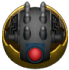
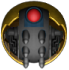
Add logic for move, rotate, report commands

diff --git a/src/App.js b/src/App.js
@@ -13,10 +13,113 @@ class App extends React.Component {
       super(props);
       this.state = {
          location: { x: 0, y: 0 },
-         facing: "north",
-         outputMessage: "An output message will go here",
+         facing: "NORTH",
+         outputMessage: "Output messages appear here",
+         // invalidCommand: false,
       };
+      this.handleSubmit = this.handleSubmit.bind(this);
+      this.moveIt = this.moveIt.bind(this);
+      this.rotateIt = this.rotateIt.bind(this);
    }
+   moveIt(facing) {
+      const x = this.state.location.x;
+      const y = this.state.location.y;
+      switch (facing) {
+         case "NORTH":
+            if (y < 4) {
+               this.setState({
+                  location: { x: x, y: y + 1 },
+                  outputMessage: `Robot moved ${this.state.facing}`,
+               });
+            } else {
+               this.setState({ outputMessage: "INVALID COMMAND" });
+            }
+            break;
+         case "SOUTH":
+            if (y > 0) {
+               this.setState({
+                  location: { x: x, y: y - 1 },
+                  outputMessage: `Robot moved ${this.state.facing}`,
+               });
+            } else {
+               this.setState({ outputMessage: "INVALID COMMAND" });
+            }
+            break;
+         case "EAST":
+            if (x < 4) {
+               this.setState({
+                  location: { x: x + 1, y: y },
+                  outputMessage: `Robot moved ${this.state.facing}`,
+               });
+            } else {
+               this.setState({ outputMessage: "INVALID COMMAND" });
+            }
+            break;
+         case "WEST":
+            if (x > 0) {
+               this.setState({
+                  location: { x: x - 1, y: y },
+                  outputMessage: `Robot moved ${this.state.facing}`,
+               });
+            } else {
+               this.setState({ outputMessage: "INVALID COMMAND" });
+            }
+            break;
+         default:
+            this.setState({ outputMessage: "INVALID COMMAND" });
+            break;
+      }
+   }
+   rotateIt(facing, clockwise) {
+      const cardinals = ["NORTH", "EAST", "SOUTH", "WEST"];
+      const index = cardinals.findIndex((e) => e === facing);
+      // console.log(facing, "index: ", index);
+      if (clockwise) {
+         this.setState(index === 3 ? { facing: "NORTH" } : { facing: cardinals[index + 1] });
+      } else if (!clockwise) {
+         this.setState(index === 0 ? { facing: "WEST" } : { facing: cardinals[index - 1] });
+      }
+   }
+
+   handleSubmit(event) {
+      event.preventDefault();
+      console.log(
+         "SUBMIT VALUES: ",
+         event.target[0].value, // command type
+         event.target[1].value, // column
+         event.target[2].value, // row
+         event.target[3].value // facing
+      );
+      switch (event.target[0].value) {
+         case "place":
+            // Function to check validity?
+            // check if any values are missing - error
+            // check if all values are valid. (0 to 4) and north, south, east or west
+
+            break;
+         case "move":
+            this.moveIt(this.state.facing);
+            break;
+         case "left":
+            this.rotateIt(this.state.facing, false);
+            this.setState({ outputMessage: "Robot rotated anticlockwise" });
+            break;
+         case "right":
+            this.rotateIt(this.state.facing, true);
+            this.setState({ outputMessage: "Robot rotated clockwise" });
+            break;
+         case "report":
+            this.setState({
+               outputMessage: `Location: (${this.state.location.x},${this.state.location.y}) Facing ${this.state.facing}`,
+            });
+            break;
+
+         default:
+            this.setState({ outputMessage: "INVALID COMMAND" });
+            break;
+      }
+   }
+
    render() {
       return (
          <div className="App">
@@ -24,9 +127,9 @@ class App extends React.Component {
                <h1>Toy Robot Challenge</h1>
             </header>
             <main>
-               <Table location={this.state.location} />
+               <Table location={this.state.location} facing={this.state.facing} />
                <div className="App-controls">
-                  <Commands />
+                  <Commands handleSubmit={this.handleSubmit} />
                   <Results outputMessage={this.state.outputMessage} />
                </div>
             </main>

diff --git a/src/components/Table.js b/src/components/Table.js
@@ -7,7 +7,8 @@ function Table(props) {
       }
       grid.push(row);
    }
-   console.log(grid);
+   // console.log(grid);
+
    return grid.map((row) => {
       return (
          <div className="Table-row">
@@ -15,7 +16,12 @@ function Table(props) {
                return (
                   <div className="Table-cell" id={`Table-square${square.col}-${square.row} `}>
                      {square.col === props.location.x && square.row === props.location.y ? (
-                        <img id="Table-robot" src="robot.png" alt="robot sprite" />
+                        <img
+                           id="Table-robot"
+                           src="robot.png"
+                           alt="robot sprite"
+                           className={`Table-img-${props.facing.toLowerCase()}`}
+                        />
                      ) : (
                         <p>
                            ({square.col},{square.row})

diff --git a/src/components/Commands.js b/src/components/Commands.js
@@ -1,6 +1,6 @@
 function Commands(props) {
    return (
-      <form id="Commands-form">
+      <form id="Commands-form" onSubmit={props.handleSubmit}>
          <div className="Commands-input">
             <label for="Commands-types">Command Type </label>
             <select name="commandTypes" id="Commands-types">
@@ -21,7 +21,9 @@ function Commands(props) {
          </div>
 
          <div className="Commands-input">
-            <input type="submit" id="Commands-submit" value="GO" />
+            <button type="submit" id="Commands-submit">
+               SEND COMMAND
+            </button>
          </div>
       </form>
    );

diff --git a/src/components/Commands.css b/src/components/Commands.css
@@ -14,6 +14,10 @@
    justify-content: space-around;
 }
 
+.Commands-input label {
+   padding: 4px 0 4px 0;
+}
+
 #Commands-types {
    width: 80px;
    padding: 5px;
@@ -39,7 +43,7 @@
 
 #Commands-submit {
    padding: 3px;
-   width: 95%;
+   width: 97%;
    padding: 6px;
    border-radius: 6px;
    border: none;

diff --git a/src/components/Results.js b/src/components/Results.js
@@ -2,7 +2,7 @@ function Results(props) {
    const styles = {
       margin: "20px",
       borderRadius: "10px",
-      backgroundColor: "grey",
+      backgroundColor: props.outputMessage.includes("INVALID") ? "red" : "grey",
       padding: "20px",
       color: "whitesmoke",
       width: "30%",

diff --git a/src/components/Table.css b/src/components/Table.css
@@ -14,3 +14,14 @@
 #Table-robot {
    height: 90%;
 }
+
+.Table-img-east {
+   transform: rotate(90deg);
+}
+
+.Table-img-south {
+   transform: rotate(180deg);
+}
+.Table-img-west {
+   transform: rotate(270deg);
+}
